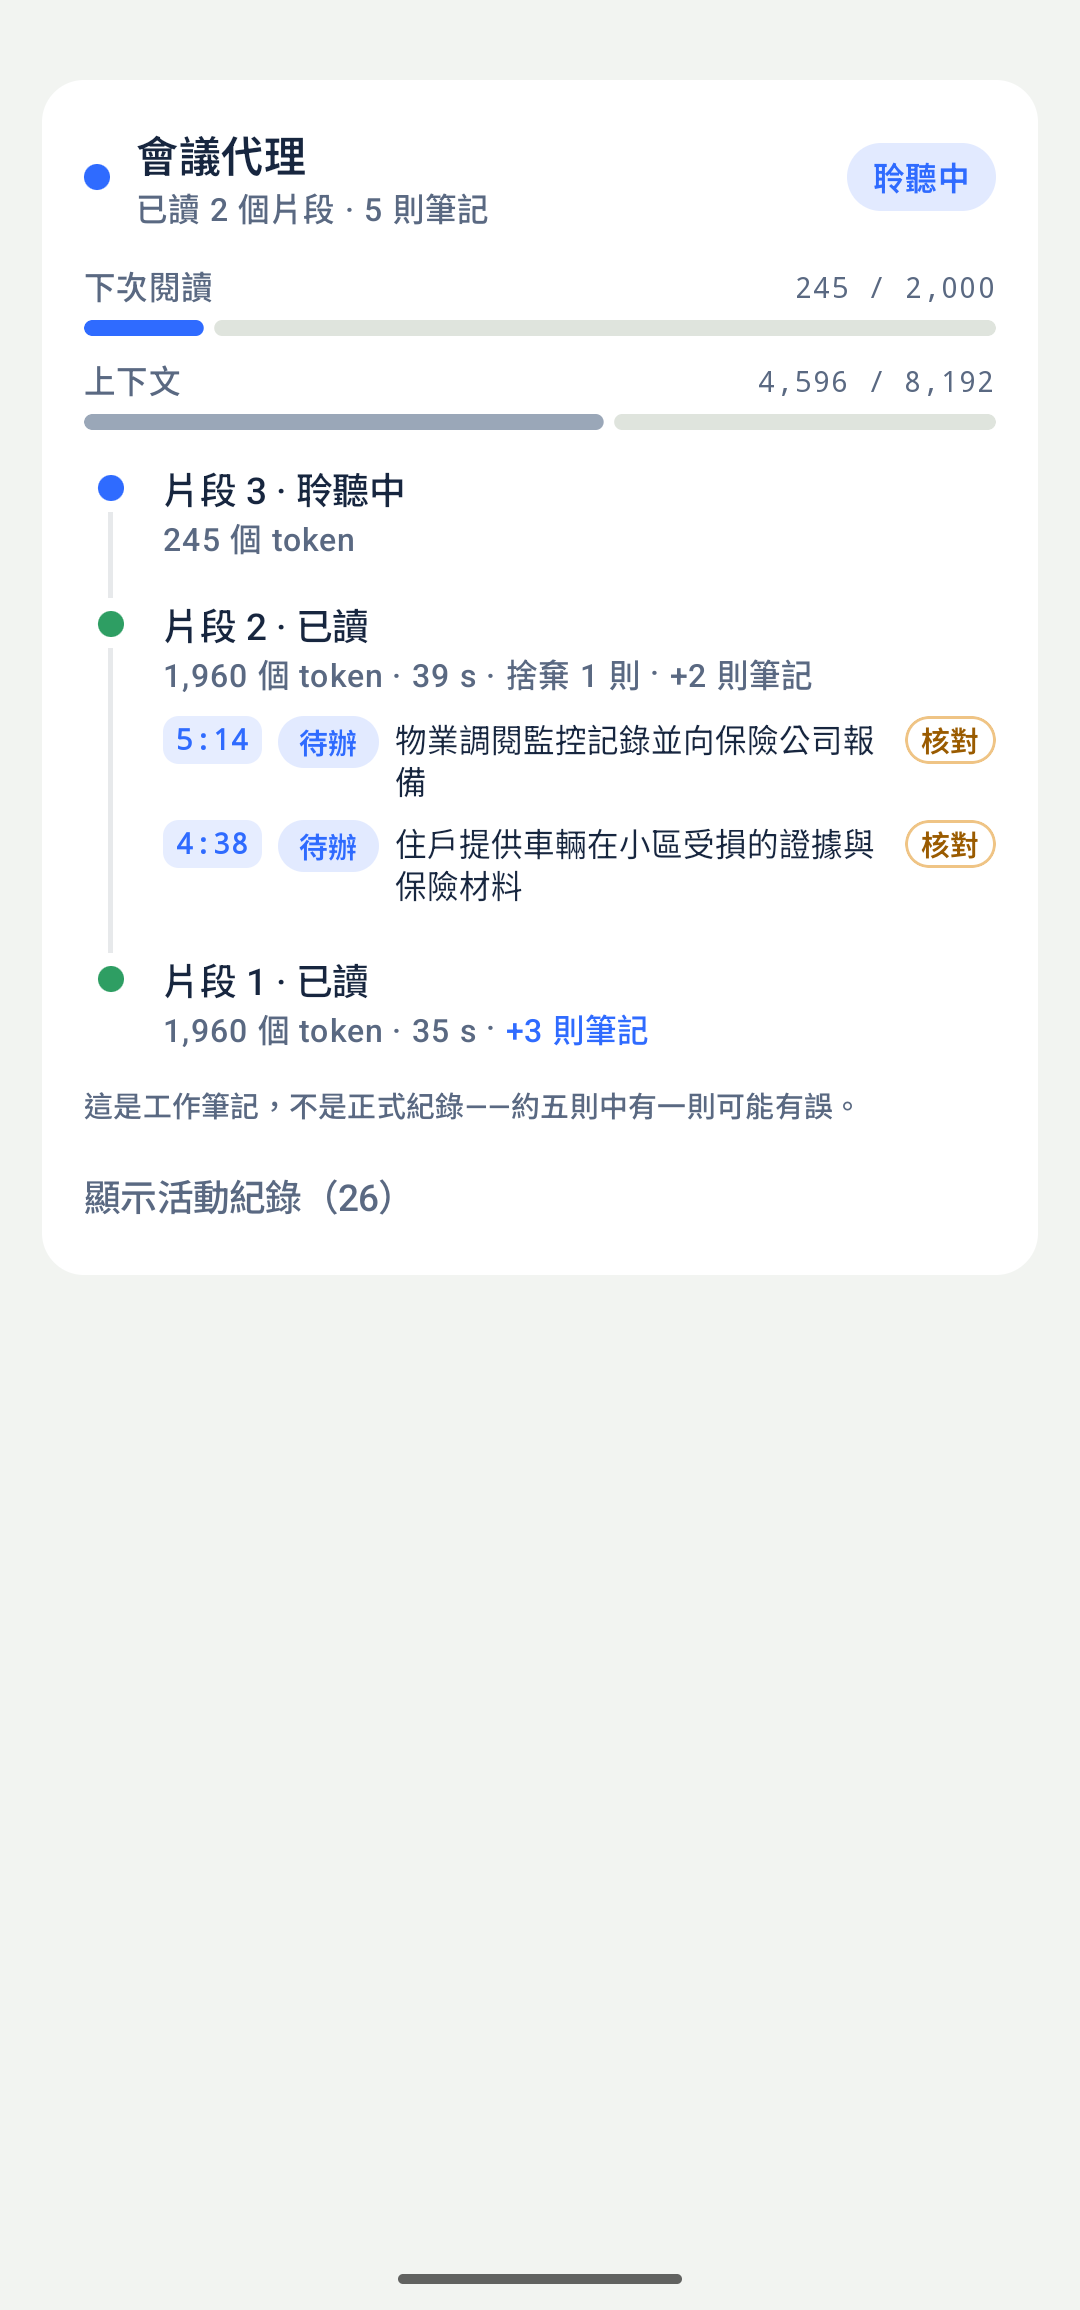
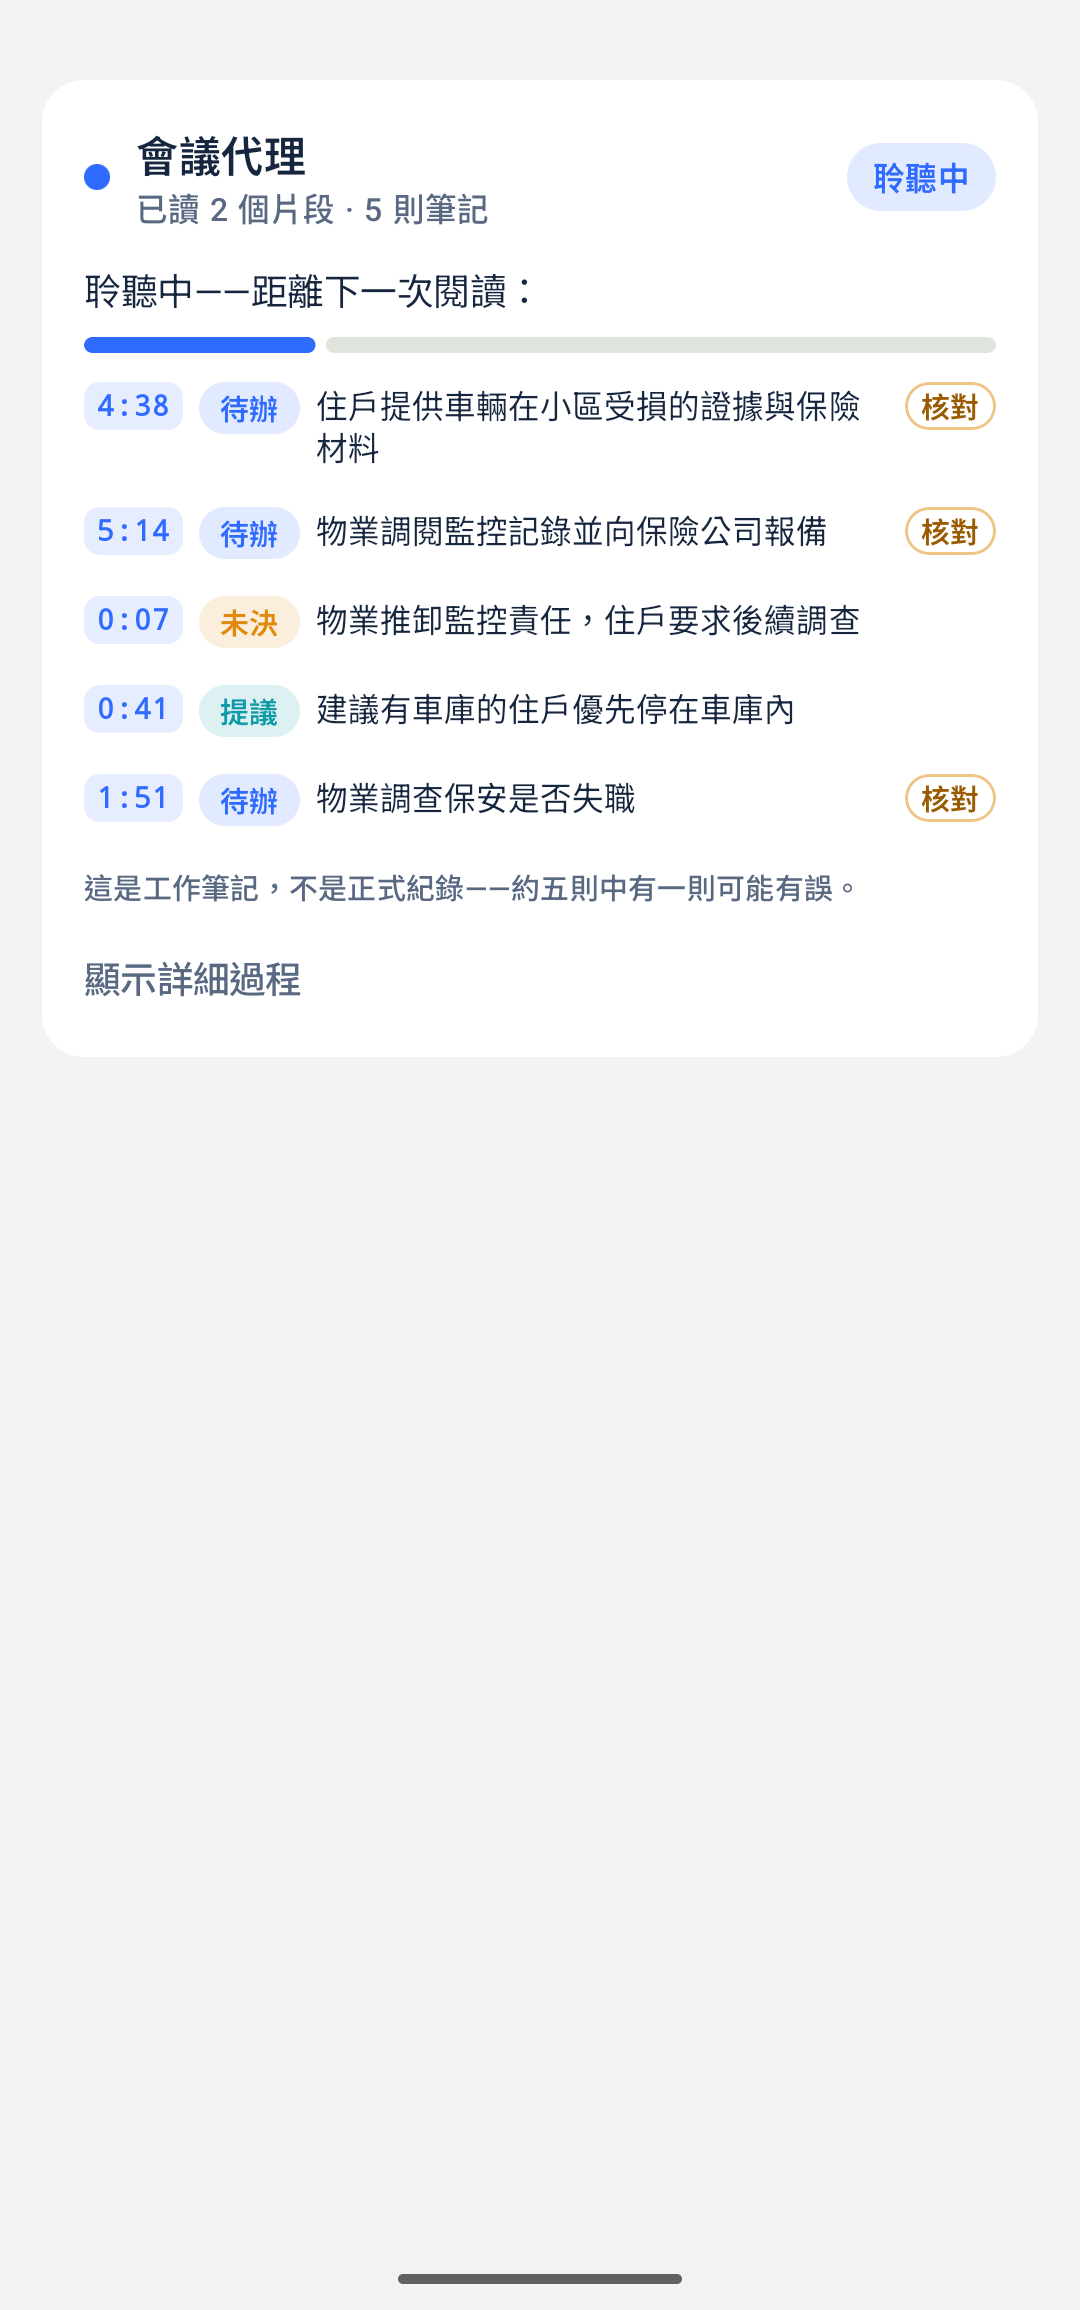
feat: meeting agent card defaults to a simple view (state, one progress bar, notes); 'Show details' restores the gauges, per-window timeline and activity log. Reshoot 05-agent and demo
Claude-Session: https://claude.ai/code/session_01FTPZWryYGhBFouGpM2DEme

diff --git a/app/src/main/java/studio/voxsum/ui/AgentPanel.kt b/app/src/main/java/studio/voxsum/ui/AgentPanel.kt
@@ -169,6 +169,9 @@ fun AgentPanel(agent: AgentUiState, onSeek: ((Int) -> Unit)? = null, modifier: M
     val done = st.state == AgentState.DONE
     var expanded by remember(done) { mutableStateOf(!done) }
     var showLog by remember { mutableStateOf(false) }
+    // Simple view by default: state, one plain progress bar, the notes. The detailed view (token
+    // gauges, per-window timeline, activity log) is one tap away for those who want the process.
+    var detailed by remember { mutableStateOf(false) }
     Column(modifier.fillMaxWidth().animateContentSize(), verticalArrangement = Arrangement.spacedBy(12.dp)) {
         Row(
             Modifier.fillMaxWidth().clickable { expanded = !expanded },
@@ -196,8 +199,10 @@ fun AgentPanel(agent: AgentUiState, onSeek: ((Int) -> Unit)? = null, modifier: M
             )
             return@Column
         }
-        if (!done) Gauges(agent, st)
-        Timeline(agent, st, onSeek)
+        if (detailed) {
+            if (!done) Gauges(agent, st)
+            Timeline(agent, st, onSeek)
+        } else SimpleBody(agent, st, onSeek)
         if (agent.notes.isNotEmpty()) {
             Text(stringResource(R.string.agent_notes_caution), style = MaterialTheme.typography.labelSmall, color = pal.Slate400)
         }
@@ -208,12 +213,17 @@ fun AgentPanel(agent: AgentUiState, onSeek: ((Int) -> Unit)? = null, modifier: M
                 modifier = Modifier.clickable { expanded = false }.padding(vertical = 4.dp),
             )
             Text(
+                stringResource(if (detailed) R.string.agent_view_simple else R.string.agent_view_detailed),
+                style = MaterialTheme.typography.labelLarge, color = pal.Slate400,
+                modifier = Modifier.clickable { detailed = !detailed; if (!detailed) showLog = false }.padding(vertical = 4.dp),
+            )
+            if (detailed) Text(
                 stringResource(if (showLog) R.string.agent_hide_log else R.string.agent_show_log, agent.log.size),
                 style = MaterialTheme.typography.labelLarge, color = pal.Slate400,
                 modifier = Modifier.clickable { showLog = !showLog }.padding(vertical = 4.dp),
             )
         }
-        if (showLog) {
+        if (detailed && showLog) {
             Column(
                 Modifier.fillMaxWidth().clip(RoundedCornerShape(10.dp)).background(pal.InsetSurface).padding(10.dp),
                 verticalArrangement = Arrangement.spacedBy(2.dp),
@@ -228,6 +238,32 @@ fun AgentPanel(agent: AgentUiState, onSeek: ((Int) -> Unit)? = null, modifier: M
                 }
             }
         }
+    }
+}
+
+/**
+ * Plain view: what the agent is doing, how close the next reading is (one bar, no token counts),
+ * the note being written, and every note so far, newest first.
+ */
+@Composable
+private fun SimpleBody(agent: AgentUiState, st: AgentEvent.State, onSeek: ((Int) -> Unit)?) {
+    val pal = LocalVoxSumPalette.current
+    val cur = agent.steps.lastOrNull { !it.restart }
+    Column(verticalArrangement = Arrangement.spacedBy(8.dp)) {
+        when (st.state) {
+            AgentState.LISTENING -> {
+                Text(stringResource(R.string.agent_simple_listening), style = MaterialTheme.typography.bodyMedium, color = pal.Slate200)
+                LinearProgressIndicator(
+                    progress = { ((cur?.tokens ?: 0).toFloat() / ReaderProtocol.WINDOW_TOKENS).coerceIn(0f, 1f) },
+                    modifier = Modifier.fillMaxWidth().height(6.dp).clip(CircleShape),
+                    color = pal.Sky, trackColor = pal.Slate700, strokeCap = StrokeCap.Round, drawStopIndicator = {},
+                )
+            }
+            AgentState.DONE -> Unit
+            else -> Text(statusLine(st), style = MaterialTheme.typography.bodyMedium, color = pal.Slate200)
+        }
+        if (cur?.reading == true && agent.reply.isNotBlank()) ReplyPreview(agent.reply)
+        agent.notes.sortedByDescending { it.window }.forEach { NoteCard(it, onSeek) }
     }
 }
 

diff --git a/README.md b/README.md
@@ -38,7 +38,7 @@
 
 <p align="center"><img src="docs/screenshots/05-agent.png" width="280" alt="會議代理"></p>
 
-最新的片段在最上面，正在寫的筆記逐字出現。每則筆記標示類型（決議、待辦、提議、未決、數字）與時間；決議、待辦與數字另有「核對」，點一下跳到原話。較早片段的筆記收合為「+n 則筆記」。
+預設為簡化顯示：一條「距離下一次閱讀」的進度條，以及所有筆記（最新的在最上面，正在寫的筆記逐字出現）。每則筆記標示類型（決議、待辦、提議、未決、數字）與時間；決議、待辦與數字另有「核對」，點一下跳到原話。「顯示詳細過程」可看到每個片段的處理與上下文用量。
 
 ### 摘要
 
